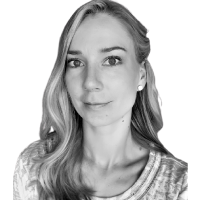
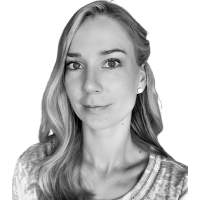
Github image updated, small spacing adj on Desktop

diff --git a/index.html b/index.html
@@ -310,10 +310,12 @@
 
               <li class="body-paragraph-how how-list-item"> Simplifies trading with user-friendly AI
                 indicators and customizable tools that reduce manual analysis and research.</li>
-              <li class=" body-paragraph-how how-list-item">Increases trading accessibility and profitability by considering
+              <li class=" body-paragraph-how how-list-item">Increases trading accessibility and profitability by
+                considering
                 risk tolerance
                 and providing actionable insights for a competitive edge.</li>
-              <li class="body-paragraph-how how-list-item">Offers an easy-to-use platform that streamlines market analysis
+              <li class="body-paragraph-how how-list-item">Offers an easy-to-use platform that streamlines market
+                analysis
                 and provides traders with
                 the tools they need to make informed investment decisions.</li>
 
@@ -418,7 +420,7 @@
 
                   <div class="modal-input-content">
                     <input type="checkbox" class="modal-checkbox" name="modal-checkbox">
-                    <label for="modal-checkbox" class="modal-checkbox-label"> 
+                    <label for="modal-checkbox" class="modal-checkbox-label">
                       I agree to receive other communications
                       from
                       MarketRaker.</label><br>
@@ -551,23 +553,25 @@
         <div class="team">The Team</div>
 
         <div class="team-info">
-          <div class="user-details">
-            <a href="https://www.linkedin.com/in/cobuscoetsee/" target="blank">
-              <img class="user-icon" src="/Media/cobus1.png">
-            </a>
+
+          <a href="https://www.linkedin.com/in/cobuscoetsee/" target="blank" class="user-details">
+            <img class="user-icon" src="/Media/cobus1.png">
             <h7 class="user-textA">Cobus Coetsee</h7>
             <h6 class="user-textB">Founder and CEO</h6>
-          </div>
+          </a>
 
-          <div class="user-details">
-            <a href="https://www.linkedin.com/in/andr%C3%A9-van-der-merwe-99922310a/" target="blank">
-              <img class="user-icon" src="/Media/andre1.png">
-            </a>
+
+
+
+          <a href="https://www.linkedin.com/in/andr%C3%A9-van-der-merwe-99922310a/" target="blank" class="user-details">
+            <img class="user-icon" src="/Media/andre1.png">
             <h7 class="user-textA">André van der Merwe</h7>
             <h6 class="user-textB">Developer</h6>
-          </div>
+          </a>
 
-         
+
+
+
 
 
           <div class="user-details">
@@ -588,7 +592,7 @@
 
           <div class="user-details">
 
-            <img class="user-icon" src="/Media/github-small.png">
+            <img class="user-icon" src="/Media/githum-copilot.svg">
 
             <h7 class="user-textA">Github Copilot</h7>
             <h6 class="user-textB">Code Assistant</h6>
@@ -615,23 +619,25 @@
 
         <div class="team-info">
 
-          <div class="user-details">
-            <a href="https://www.linkedin.com/in/wimconradie/" target="blank">
-              <img class="user-icon" src="/Media/wim1.png">
-            </a>
+
+          <a href="https://www.linkedin.com/in/wimconradie/" target="blank" class="user-details">
+            <img class="user-icon" src="/Media/wim1.png">
             <h7 class="user-textA">Wim Conradie</h7>
             <h6 class="user-textB">Operations</h6>
+          </a>
 
-          </div>
 
-          <div class="user-details">
-            <a href="https://www.linkedin.com/in/jacobuseksteen/" target="blank">
-              <img class="user-icon" src="/Media/jacobus1.png">
-            </a>
+
+
+
+          <a href="https://www.linkedin.com/in/jacobuseksteen/" target="blank" class="user-details">
+            <img class="user-icon" src="/Media/jacobus1.png">
             <h7 class="user-textA">Jacobus Eksteen</h7>
             <h6 class="user-textB">AI Risk Assessment</h6>
+          </a>
 
-          </div>
+
+
 
         </div>
 

diff --git a/css/base.css b/css/base.css
@@ -120,7 +120,7 @@ html {
   padding-top: 20px;
   padding-bottom: 15px;
 
-  max-width: 150px;
+  max-width: 120px;
 
 }
 
@@ -205,12 +205,12 @@ html {
 }
 
 .why-block {
-  /* background-color: red; */
+ 
   display: flex;
   flex-direction: column;
   justify-content: center;
   flex: 1;
-  /* background-color: blue; */
+  
   width: 100%;
 
   border-style: solid;
@@ -218,7 +218,7 @@ html {
   border-bottom-width: 10px;
 
   text-align: center;
-  padding-bottom: 50px;
+  padding-bottom: 70px;
 }
 
 .body-heading {
@@ -415,7 +415,7 @@ html {
   width: 100%;
   margin-top: 100px;
   height: calc(100vh - 70px - 220px - 100px);
-  background-position: -600px 85px;
+  background-position: -450px 85px;
   background-image: url(../Media/candle\ graph\ loop.svg);
   background-size: 300vh 70%;
   background-color: #efefef;
@@ -495,7 +495,7 @@ html {
   flex: 1;
   align-items: center;
   /* background-color: blue; */
-  padding: 3rem 5%;
+  padding: 2rem 5%;
 
   border-style: solid;
   border: 0px solid white;
@@ -519,7 +519,7 @@ html {
 .icon-line-container {
   display: flex;
   justify-content: center;
-  width: 100%;
+  width: 90%;
 
 }
 
@@ -530,8 +530,8 @@ html {
 .how-list-item {
   display: flex;
   margin: 0 50px;
-  width: 25%;
-  /* font-weight: bold; */
+  width: 50%;
+
 }
 
 .body-paragraph-how {
@@ -1017,10 +1017,14 @@ small {
 .user-details {
   display: flex;
   justify-content: center;
+  align-items: center;
   flex-direction: column;
+  text-decoration:none ;
   
 
 }
+
+
 
 .user-textA {
 
@@ -1034,6 +1038,7 @@ small {
   padding-bottom: 10px;
   color: #439775;
   font-weight: bold;
+  text-decoration: none;
 
 
 }
@@ -1047,5 +1052,6 @@ small {
   font-size: 12px;
 
   text-align: center;
+  text-decoration: none;
 
 }

diff --git a/css/mobile.css b/css/mobile.css
@@ -322,6 +322,11 @@
         flex: 0.8;
 
     }
+    .icon-line-container {
+        
+        width: 100%;
+      
+      }
 
 
     .icon-line {
@@ -748,7 +753,7 @@
 
 
     .user-icon {
-        width: 45px;
+        width: 80px;
         gap: 20px;
         padding-top: 10px;
 
